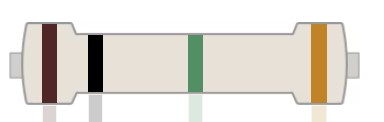
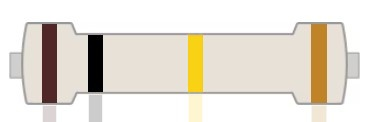
fix(piano-solder-kit): correct resistor colour codes, Step 5 placement and BOM
A customer building the kit reported that the assembly guide shows the
resistors wrong. Checked against the v2.2 schematic and BOM, which match
every board revision shipped since 2023 for resistor values and positions.

- 10 kΩ and 100 kΩ colour-code images showed brown-black-red (1 kΩ) and
  brown-black-green (1 MΩ). Third band is now orange and yellow.
- The Step 5 photo paired the 100 kΩ resistor with R21 and the 10 Ω with
  R19, contradicting the table above it. The board highlights are swapped
  so each resistor points at its own position.
- Overview contents listed 5 × 10 kΩ and a 1000 µF capacitor. The kit has
  4 × 10 kΩ and a 10 µF capacitor.
- VR2 is the arpeggio speed pot, not tone control.
- Role descriptions for R2/R3, the 10 kΩ group, C11 and C12 now match the
  schematic, Step 10 names the speaker polarity, and two typos on the
  How to play page are fixed.

Changed region(s): [[0.4688, 0.2705, 0.5312, 1.0]]

diff --git a/soldered-documentation/docs/solder-kits/piano-kit/assembly-guide.md b/soldered-documentation/docs/solder-kits/piano-kit/assembly-guide.md
@@ -84,7 +84,7 @@ You can identify the 5.1 kΩ resistors by their **blue** (metal film) color — 
 
 | Resistor | Value | Position on PCB |
 |-----------|--------|----------------|
-| R2, R3    | 5.1 kΩ | Input network resistors |
+| R2, R3    | 5.1 kΩ | USB-C CC pull-down resistors |
 
 <CenteredImage src="/img/piano-solder-kit/tutorial/tutorial_08.jpg" alt="5.1 kΩ resistors" width="450px"/>
 
@@ -102,7 +102,7 @@ You can identify the 10 kΩ resistor by this color code:
 
 | Resistor | Value | Position on PCB |
 |-----------|--------|----------------|
-| R1, R4, R5, R20 | 10 kΩ | Pull-ups and feedback resistors |
+| R1, R4, R5, R20 | 10 kΩ | Octave selector (R1, R4, R5) and reset pull-up (R20) |
 
 <CenteredImage src="/img/piano-solder-kit/tutorial/tutorial_09.jpg" alt="10 kΩ resistors" width="450px"/>
 
@@ -151,8 +151,8 @@ The cathode (shorter leg) must be inserted into the shaded pad, and the anode (l
 | Capacitor | Value | Notes |
 |------------|--------|-------|
 | C1 | 100 µF | Power filtering |
-| C11 | 100 µF | Audio path |
-| C12 | 10 µF | Signal coupling |
+| C11 | 100 µF | Power filtering |
+| C12 | 10 µF | Power filtering |
 | C14 | 680 µF | Output capacitor (green) |
 
 <CenteredImage src="/img/piano-solder-kit/tutorial/parts_06.jpg" alt="Electrolytic capacitors" caption="Step 7: Solder the electrolytic capacitors"/>
@@ -181,7 +181,7 @@ Almost there! Let’s solder the mechanical parts.
 | Label | Value | Function |
 |--------|--------|----------|
 | VR1 | 10 kΩ | Volume control |
-| VR2 | 100 kΩ | Tone control |
+| VR2 | 100 kΩ | Arpeggio speed |
 
 The switches only fit one way in their respective slots (ON/OFF, octave selection, and arpeggio mode).
 
@@ -195,7 +195,7 @@ The switches only fit one way in their respective slots (ON/OFF, octave selectio
 
 ## Step 10: Finish the build
 
-Solder and attach the speaker wires to the speaker, then connect them to the speaker outputs on the board.  
+Solder and attach the speaker wires to the speaker, then connect them to the **SPEAKER** pads on the board. The pads are marked **+** and **−**: use the red wire for **+**.  
 The speaker includes a small piece of self-adhesive tape to attach it to the PCB.
 
 Then, you can insert the ICs into their sockets — **mind their orientation!**

diff --git a/soldered-documentation/docs/solder-kits/piano-kit/overview.md b/soldered-documentation/docs/solder-kits/piano-kit/overview.md
@@ -9,7 +9,7 @@ hide_title: False
 ## Introduction
 
 
-The **Piano Solder Kit** is an educational electronics kit that teaches you the fundamentals of soldering and electronics by building a fully functional capacitive touch piano. Built around the classic **ATmega328P microcontroller** (which comes pre-programmed and ready to assemble) it generates tones and outputs sound to an external speaker through the **LM386 Audio Amplifier** for optimal loudness. The board also features an **arpeggio mode** with adjustable arpeggio speed control and **multiple octave settings**.
+The **Piano Solder Kit** is an educational electronics kit that teaches you the fundamentals of soldering and electronics by building a fully functional capacitive touch piano. Built around the classic **ATmega328P microcontroller** (which comes pre-programmed and ready to assemble) it generates tones and outputs sound to the included speaker through the **LM386 Audio Amplifier** for optimal loudness. The board also features an **arpeggio mode** with adjustable arpeggio speed control and **multiple octave settings**.
 
 <CenteredImage src="/img/piano-solder-kit/333181.jpg" alt="Piano Solder Kit" caption="Piano Solder Kit" />
 
@@ -44,14 +44,14 @@ The **Piano Solder Kit** is an educational electronics kit that teaches you the 
 - **Resistors:**  
   - 12 × 1 MΩ  
   - 1 × 100 kΩ  
-  - 5 × 10 kΩ  
+  - 4 × 10 kΩ  
   - 2 × 5.1 kΩ  
   - 1 × 100 Ω  
   - 1 × 10 Ω  
 - **Capacitors:**  
   - 7 × 100 nF (ceramic)  
   - 2 × electrolytic 100 µF  
-  - 1 × electrolytic 1000 µF  
+  - 1 × electrolytic 10 µF  
   - 1 × electrolytic 680 µF  
 - **Diodes:** 2 × 1N4007  
 - **8 Ω Speaker:** For instant sound playback  

diff --git a/soldered-documentation/docs/solder-kits/piano-kit/playing.md b/soldered-documentation/docs/solder-kits/piano-kit/playing.md
@@ -15,7 +15,7 @@ After plugging in the finished board to USB-C for power toggle the **POWER** swi
 
 Press the capacitive touch buttons to play corresponding piano notes:
 
-<CenteredImage src="/img/piano-solder-kit/notes.jpg" alt="Notes" caption="Capacitive touch keys corresponing to Piano notes"/>
+<CenteredImage src="/img/piano-solder-kit/notes.jpg" alt="Notes" caption="Capacitive touch keys corresponding to Piano notes"/>
 
 You can adjust the total output volume using the volume potentiometer: 
 
@@ -35,4 +35,4 @@ The built-in arpeggio mode can be enabled by using the **ARPEGGIO** switch, and 
 
 <CenteredImage src="/img/piano-solder-kit/arp_1.jpg" alt="Arpeggio settings" caption="Arpeggio settings"/>
 
-After this mode is enabled, holding down multiple keys will change between the pressed automatically in an **ascending** manner.
+After this mode is enabled, holding down multiple keys will change between the pressed notes automatically in an **ascending** manner.
